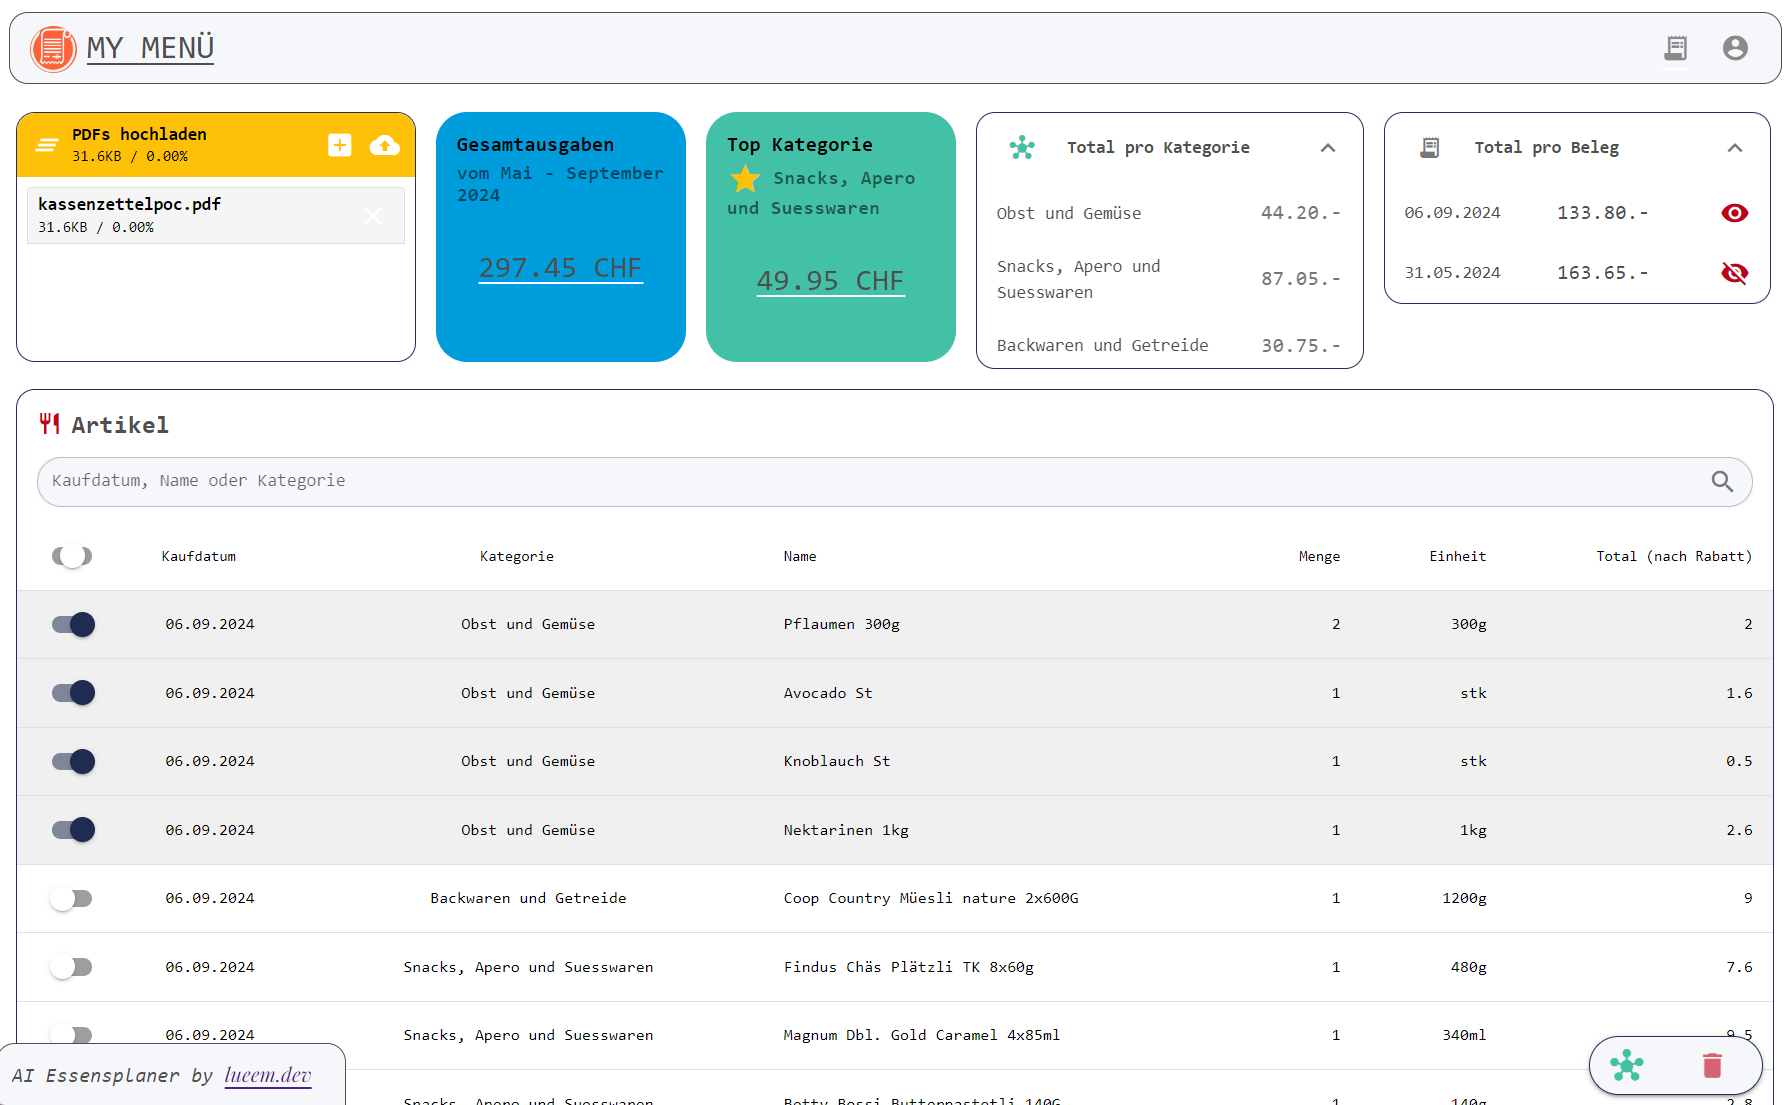
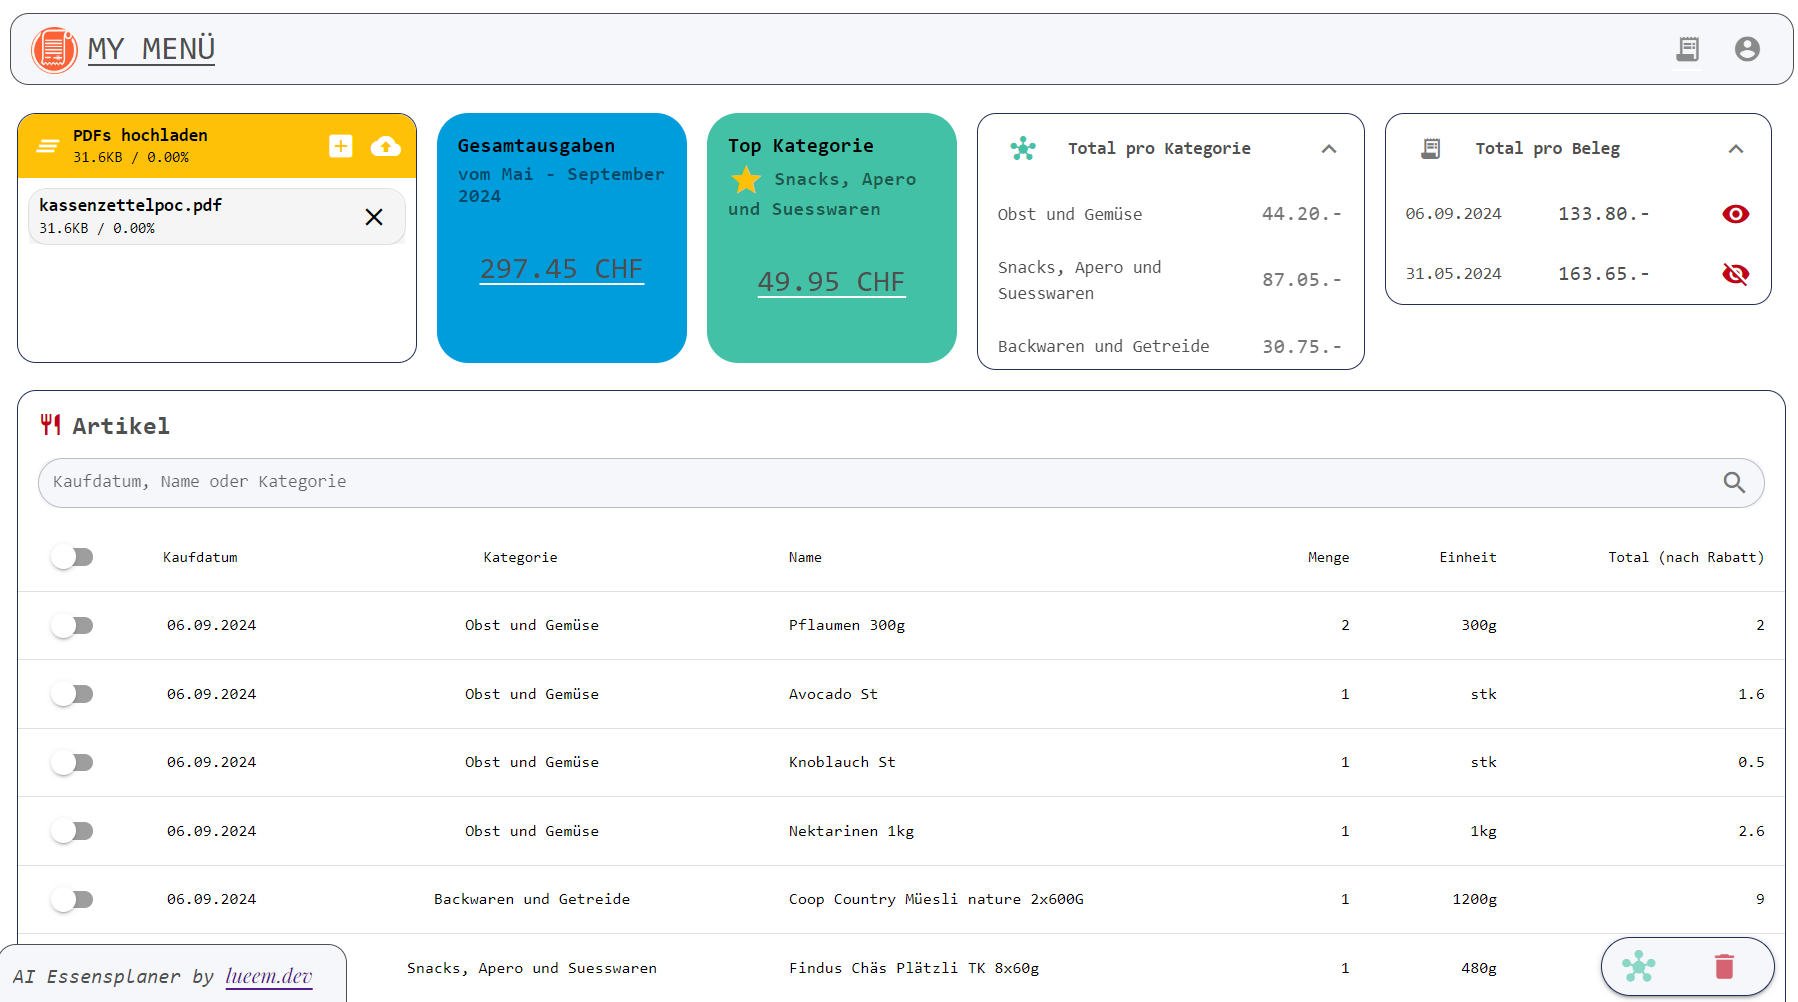
fix: uploader

diff --git a/project/frontend/src/pages/Scanner.vue b/project/frontend/src/pages/Scanner.vue
@@ -97,6 +97,12 @@ export default defineComponent({
   margin-left: 0;
   padding-left: 0;
 }
+:deep(.q-uploader__file) {
+  border-radius: 15px;
+  .q-icon {
+    color: black !important;
+  }
+}
 .q-uploader__header {
   background-color: $card-background !important;
 }
